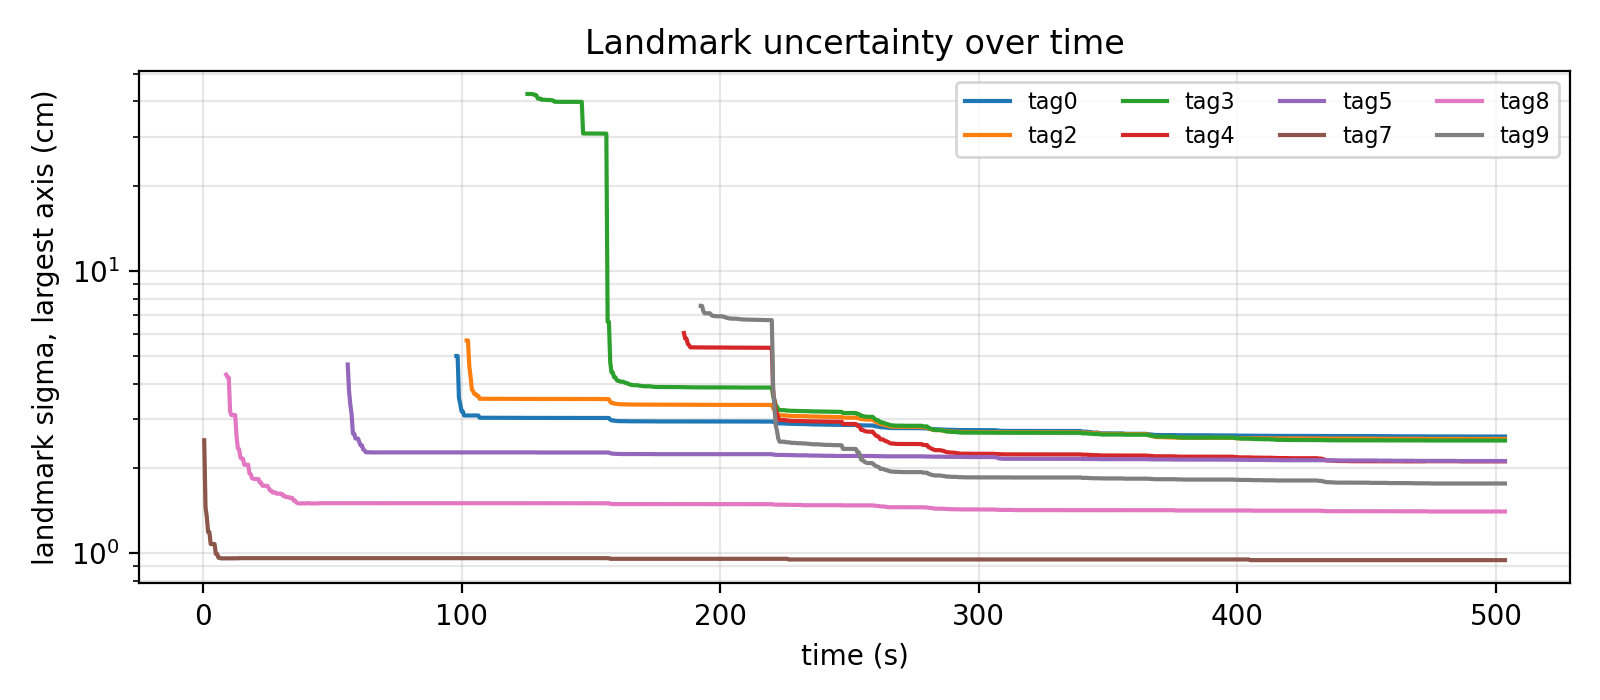
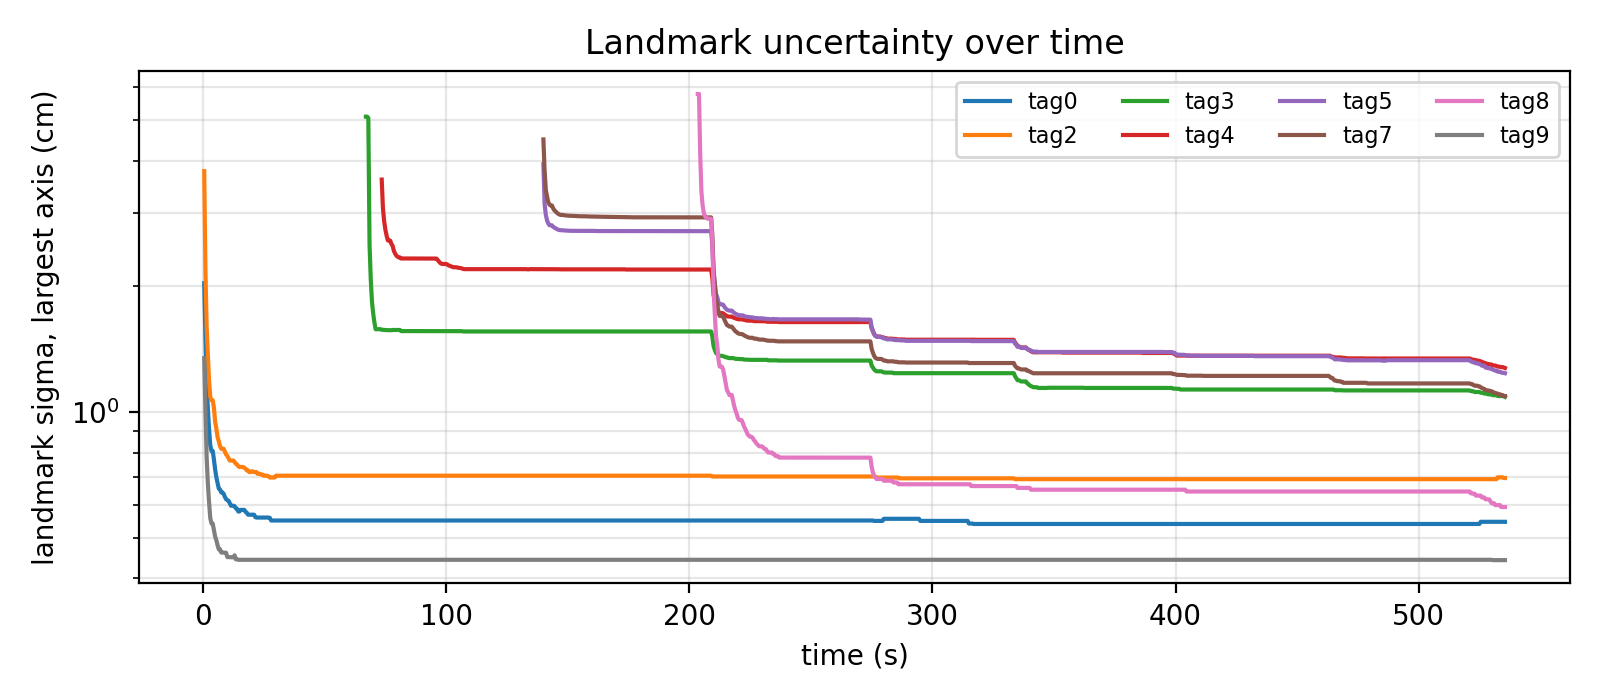
square 1.5*2

diff --git a/robot_control/robot_control/motion.py b/robot_control/robot_control/motion.py
@@ -40,7 +40,7 @@ BASE_TURN = 0.35             # command for the timed turn
 # CCW_TABLE = [(45, 0.68), (90, 1.08), (135, 1.48), (180, 1.88)]   # left turns
 # CW_TABLE = [(45, 0.7), (90, 1.04), (135, 1.38), (180, 1.95)]    # right turns
 
-CCW_TABLE = [(45, 0.7), (90, 1.2), (135, 1.7), (180, 2.1)]   # left turns
+CCW_TABLE = [(45, 0.7), (90, 1.0), (135, 1.7), (180, 2.1)]   # left turns
 CW_TABLE = [(45, 0.6), (90, 0.9), (135, 1.2), (180, 1.55)]    # right turns
 
 # CCW_TABLE = [(45, 0.6), (90, 1.1), (135, 1.4), (180, 1.9)]   # left turns
